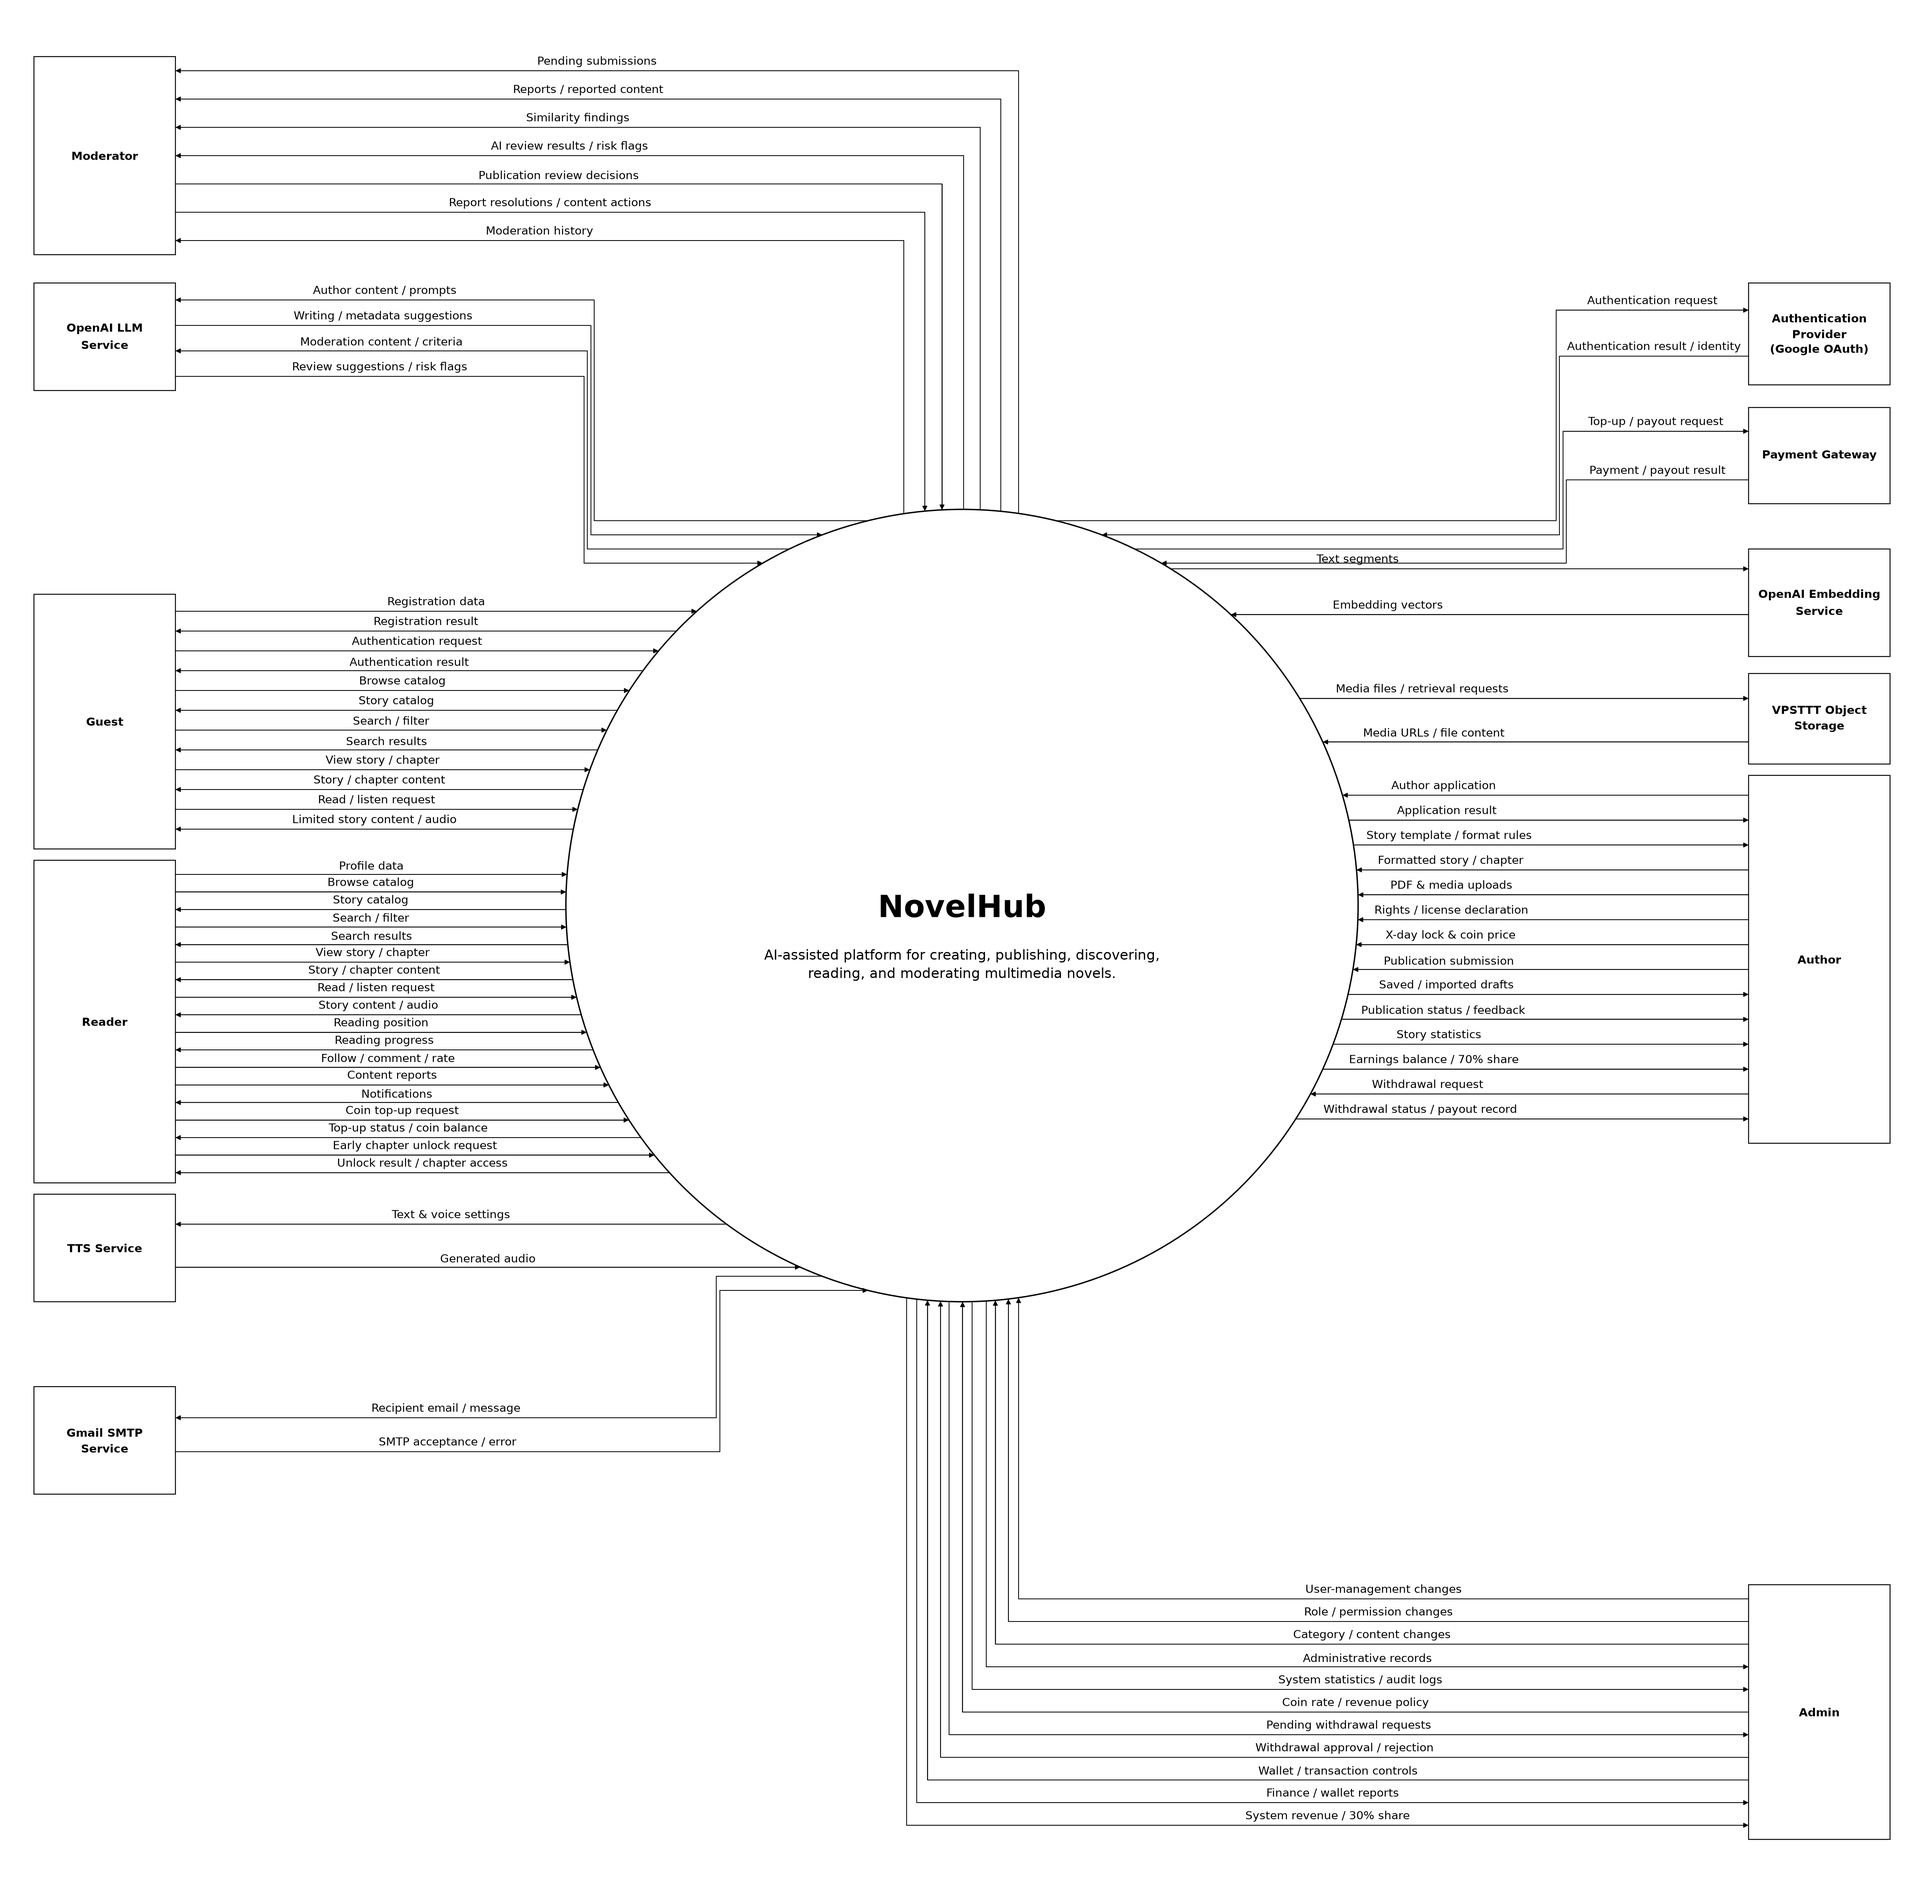
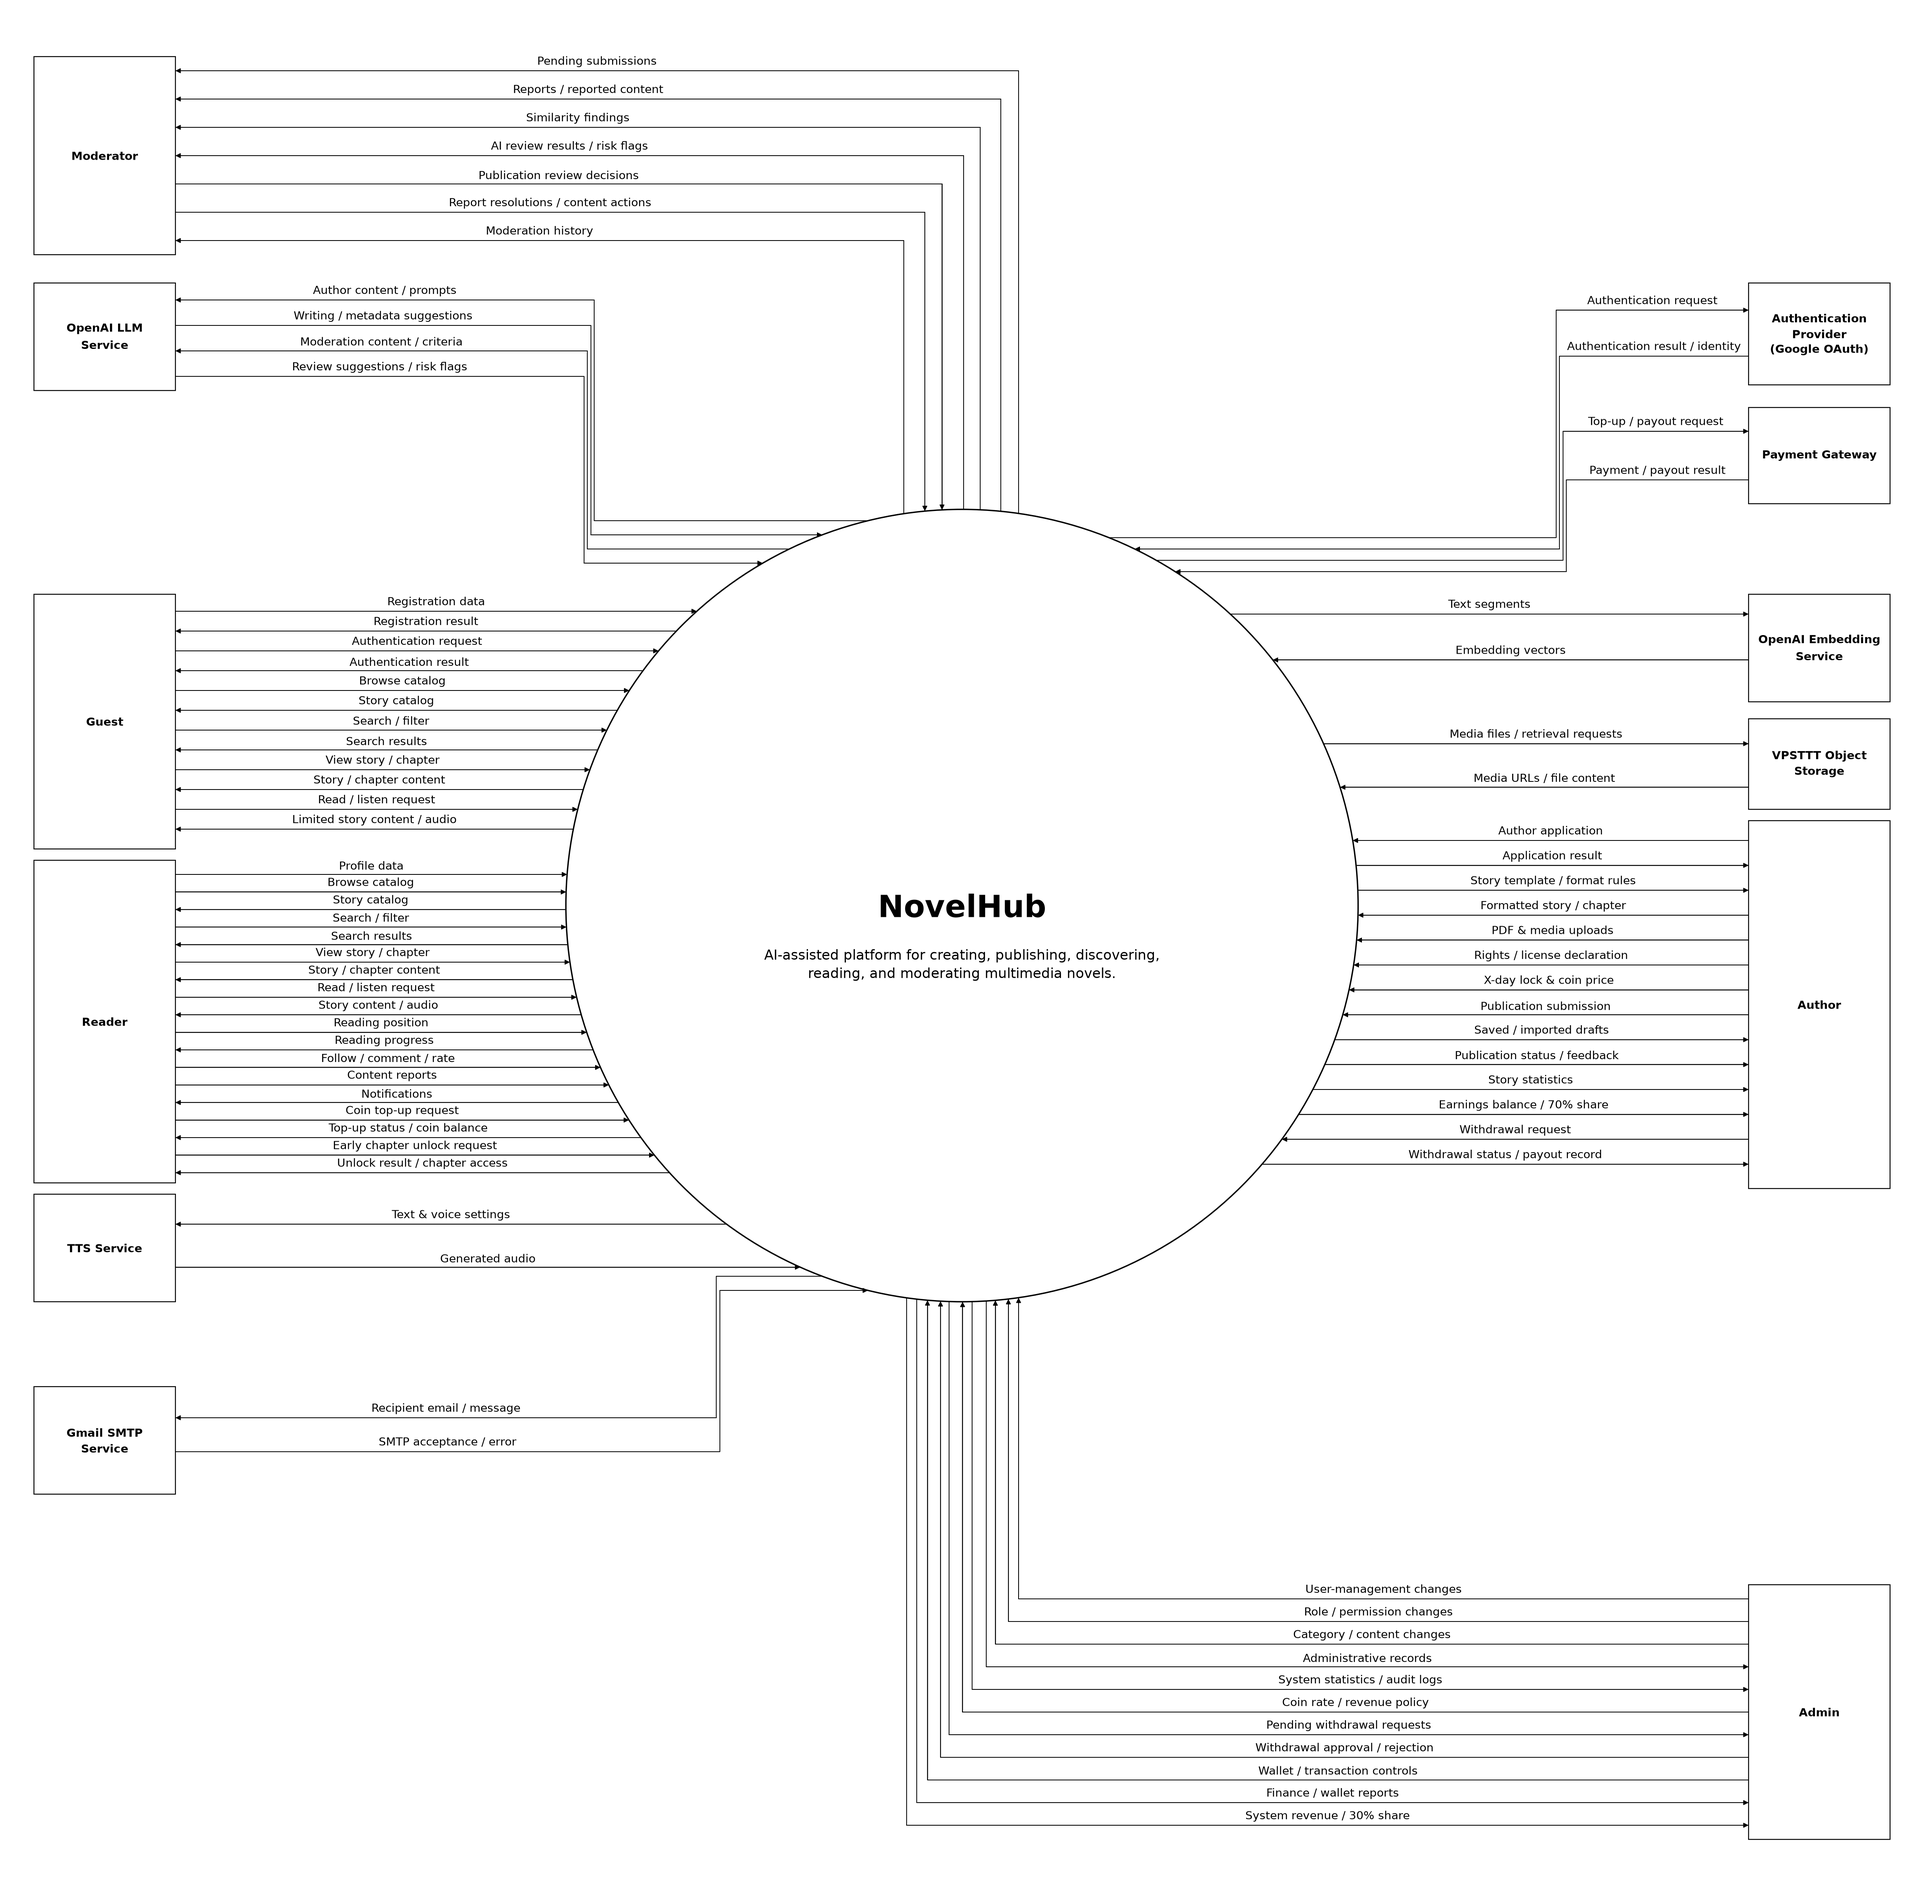
fix(diagram): separate payment and embedding lanes

Changed region(s): [[0.684, 0.3424, 0.9017, 0.6226], [0.9017, 0.3113, 0.9639, 0.4358], [0.684, 0.2802, 0.7462, 0.3113]]

diff --git a/gen_context.py b/gen_context.py
@@ -71,9 +71,9 @@ boxes={
  'reader':(60,1520,250,570),
  'ai':(60,500,250,190),
  'tts':(60,2110,250,190),
- 'embedding':(3090,970,250,190),
- 'storage':(3090,1190,250,160),
- 'author':(3090,1370,250,650),
+ 'embedding':(3090,1050,250,190),
+ 'storage':(3090,1270,250,160),
+ 'author':(3090,1450,250,650),
  'email':(60,2450,250,190),
  'moderator':(60,100,250,350),
  'admin':(3090,2800,250,450),
@@ -107,7 +107,10 @@ for names,side in [(['ai','guest','reader','tts','email'],'L'),(['oauth','paymen
  below_pos={j:k for k,j in enumerate(below)}
  for i,f in enumerate(group):
   if i in above_pos:
-   ny=top+20+25*above_pos[i]
+   if side=='R':
+    ny=top+50+20*above_pos[i]
+   else:
+    ny=top+20+25*above_pos[i]
   elif i in below_pos:
    ny=bottom-20-25*(len(below)-1-below_pos[i])
   else:
@@ -127,7 +130,7 @@ for names,side in [(['ai','guest','reader','tts','email'],'L'),(['oauth','paymen
   if routed:
    f['lx']=(start[0]+bend)/2
   else:
-   f['lx']=(start[0]+end[0])/2-(180 if side=='R' else 0)
+   f['lx']=(start[0]+end[0])/2
   f['ly']=f['ey']-16;f['lw']=660;f['lh']=32
  flows.extend(group)
 # Upper/lower connections: vertical from the circle, one 90-degree bend,
